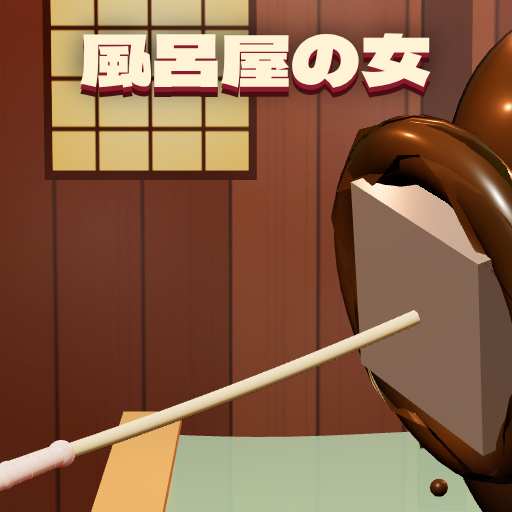
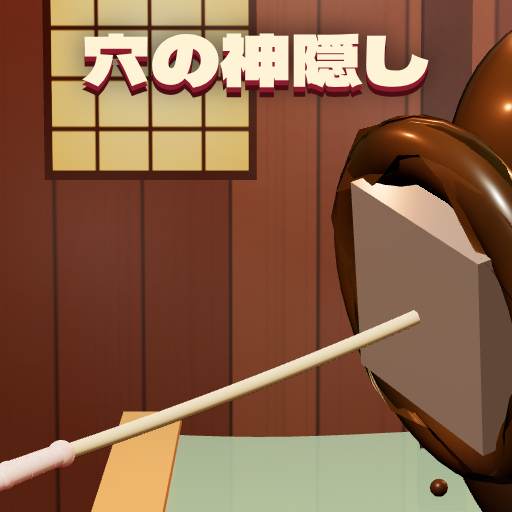
「穴の神隠し」に改名
Claude-Session: https://claude.ai/code/session_015kjrkbndTJzVydCEMe4R1T

Changed region(s): [[0.1562, 0.0312, 0.8438, 0.1875]]

diff --git a/index.html b/index.html
@@ -406,10 +406,10 @@ const GAMES = [
     catch: '倒れた誰かの欠片が、きみの力になる。'
   },
   {
-    name: '風呂屋の女', yomi: 'ふろやのおんな',
+    name: '穴の神隠し', yomi: 'あなのかみかくし',
     url: 'https://nasubi-no-oniwa.github.io/furoya-no-onna/',
     image: 'img/furoya-no-onna.png',
-    text: '巨大なヘドロのお尻から、○△■がムリムリ出てくる。綱を長押しで引いて、離すとゆるむ。■は強く、△はやさしく、○はそのあいだ。強すぎると綱がちぎれ、弱すぎると吸いこまれてすっぽ抜ける。たよりは穴からの出かただけ。引くのは顔のないデッサン人形。大きさの合計でランキング。',
+    text: '巨大なヘドロのお尻から、○△■がムリムリ出てくる。長押しで綱を引いて、離すとゆるむ。■は強く、△はやさしく、○はそのあいだ。穴のまわりの輪が赤なら強すぎ、青なら弱すぎ。たまに金の○も。抜いた量と形で決まる称号は1万通り、引くのは顔のないデッサン人形。',
     tags: ['3D', '長押し', 'ひとりで', '力加減', 'ランキング'],
     badge: 'NEW', catch: 'ムリムリ出てくる○△■を、引っぱり出せ！'
   },
@@ -422,7 +422,8 @@ const GAMES = [
 ];
 
 const NEWS = [
-  { date: '2026.10.27', text: '新作「風呂屋の女」を公開しました。くさい客にからまったガラクタを、綱で引っぱり出す力加減のゲームです。女将の声をたよりに、大きいガラクタを出しつづけましょう。ランキングつき。' },
+  { date: '2026.10.27', text: '「風呂屋の女」は3Dになって「穴の神隠し」に生まれ変わりました。巨大なお尻から出てくる○△■を引っぱり出して、1万通りの称号を集めましょう。ランキングも新しくなりました。' },
+  { date: '2026.10.27', text: '新作「風呂屋の女」（いまの「穴の神隠し」）を公開しました。くさい客にからまったガラクタを、綱で引っぱり出す力加減のゲームです。女将の声をたよりに、大きいガラクタを出しつづけましょう。ランキングつき。' },
   { date: '2026.10.27', text: '新作「インテグラ・レイヤー」を公開しました。倒れた誰かの欠片を盤面につないで強くなる、全員参加型のローグライクです。ボスの予告、地域の大ボス、合成所つき。みんなで100階の塔を上りましょう。' },
   { date: '2026.10.23', text: "新作「Fairies' Tower（フェアリーズタワー）」を公開しました。妖精になって、倒れた仲間の屍を足場に100層の世界樹を昇ります。3つの陣営に分かれて頂上を目指す競争。掲示板つき、4つの言葉で遊べます。" },
   { date: '2026.10.23', text: '新作「芋娘」を公開しました。教官の目を盗んで芋を食べる、2ボタンの3Dゲームです。コンボ・芋祭り・階級・ランキングつき。60秒で何個食べられるか、めざせ芋将軍！' },
